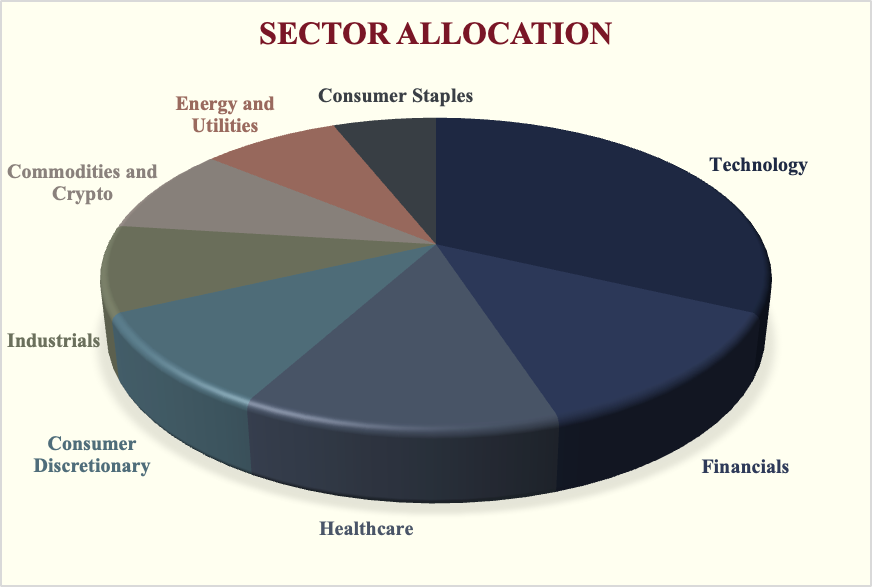
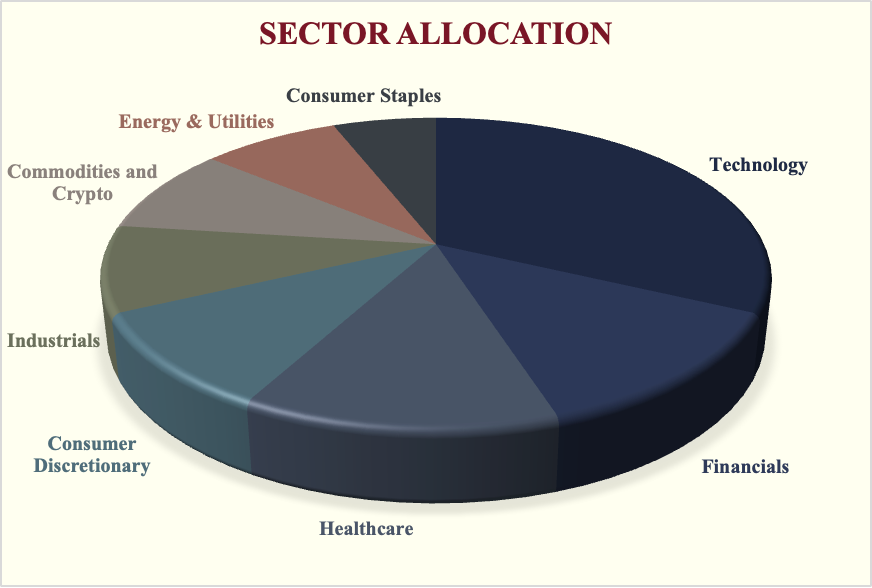
final website polish

Changed region(s): [[0.1239, 0.1531, 0.5573, 0.2449]]

diff --git a/src/components/about/AboutEboard.jsx b/src/components/about/AboutEboard.jsx
@@ -133,33 +133,55 @@ export default function AboutEboard() {
     visible: { opacity: 1, y: 0 },
   };
 
-  const Card = ({ member }) => (
-    <motion.button
-      variants={cardVariants}
-      transition={{ duration: 0.45, ease: 'easeOut' }}
-      onClick={() => setActiveMember(member)}
-      className="flex flex-col items-center text-center group"
+const Card = ({ member }) => (
+  <motion.button
+    variants={cardVariants}
+    transition={{ duration: 0.45, ease: 'easeOut' }}
+    onClick={() => setActiveMember(member)}
+    className="
+      flex flex-col items-center text-center
+      cursor-pointer
+      group
+      focus:outline-none
+    "
+    whileHover={{ y: -4 }}
+    whileTap={{ scale: 0.98 }}
+  >
+    <div
+      className="
+        w-40 h-40 rounded-full overflow-hidden mb-4
+        bg-gray-200
+        ring-2 ring-transparent
+        group-hover:ring-[#7A1626]/60
+        transition
+        duration-200
+      "
     >
-      <div className="w-40 h-40 rounded-full overflow-hidden mb-4 bg-gray-200">
-        <div
-          className="w-full h-full"
-          style={{
-            transform: `scale(${member.zoom || 1})`,
-            transformOrigin: 'center',
-          }}
-        >
-          <img
-            src={member.image}
-            alt={member.name}
-            style={{ objectPosition: member.objectPosition || '50% 50%' }}
-            className="w-full h-full object-cover"
-          />
-        </div>
+      <div
+        className="w-full h-full transition-transform duration-200 group-hover:scale-[1.04]"
+        style={{
+          transform: `scale(${member.zoom || 1})`,
+          transformOrigin: 'center',
+        }}
+      >
+        <img
+          src={member.image}
+          alt={member.name}
+          style={{ objectPosition: member.objectPosition || '50% 50%' }}
+          className="w-full h-full object-cover"
+        />
       </div>
-      <h3 className="font-medium text-[#1F2933]">{member.name}</h3>
-      <p className="text-sm text-[#6B7280]">{member.role}</p>
-    </motion.button>
-  );
+    </div>
+
+    <h3 className="font-medium text-[#1F2933] group-hover:text-[#7A1626] transition-colors">
+      {member.name}
+    </h3>
+    <p className="text-sm text-[#6B7280]">
+      {member.role}
+    </p>
+  </motion.button>
+);
+
 
   return (
     <>

diff --git a/src/components/fundamental/FundamentalSectors.jsx b/src/components/fundamental/FundamentalSectors.jsx
@@ -17,11 +17,13 @@ export default function FundamentalSectors() {
           transition={{ duration: 0.8, ease: "easeOut" }}
           className="md:col-span-6 flex justify-center"
         >
+        <div className="w-full max-w-3xl overflow-hidden">
           <img
             src={SectorAllocationImage}
             alt="Scarlet Investment Group"
-            className="w-full max-w-3xl h-auto"
+            className="w-full h-auto scale-[1.02]"
           />
+        </div>
         </motion.div>
 
         {/* Text + Scarlet Rule */}

diff --git a/src/components/journal/JournalCurrentEdition.jsx b/src/components/journal/JournalCurrentEdition.jsx
@@ -4,9 +4,6 @@ import { useRef } from "react";
 /* FUTURE-PROOF DATA */
 const editions = [
   { label: "Spring 2026", status: "In Progress", active: true },
-  { label: "Fall 2025" },
-  { label: "Spring 2025" },
-  { label: "Fall 2024" },
 ];
 
 export default function JournalCurrentEdition() {
